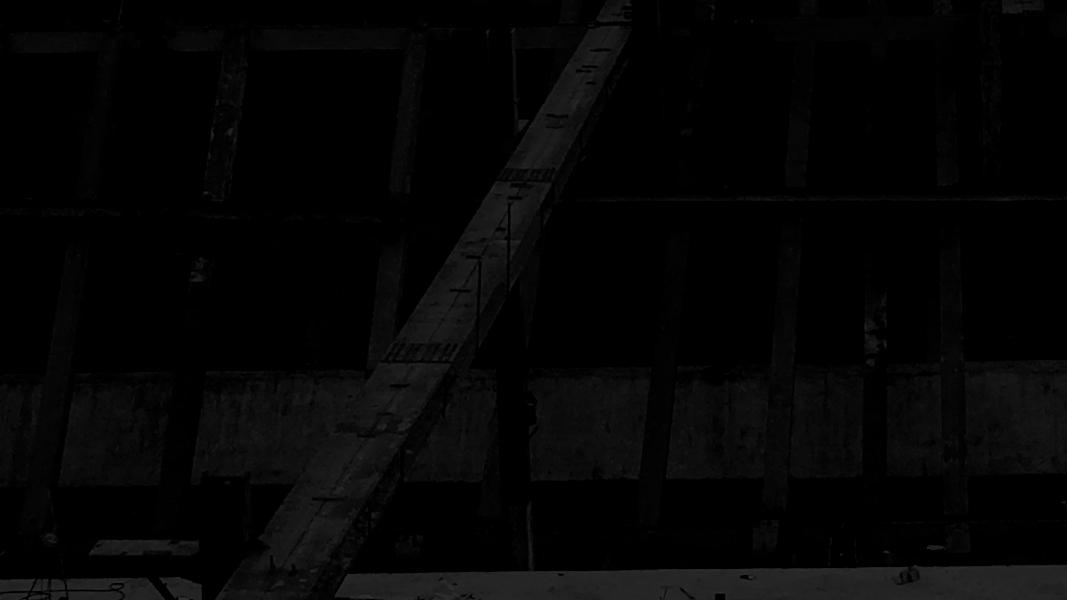
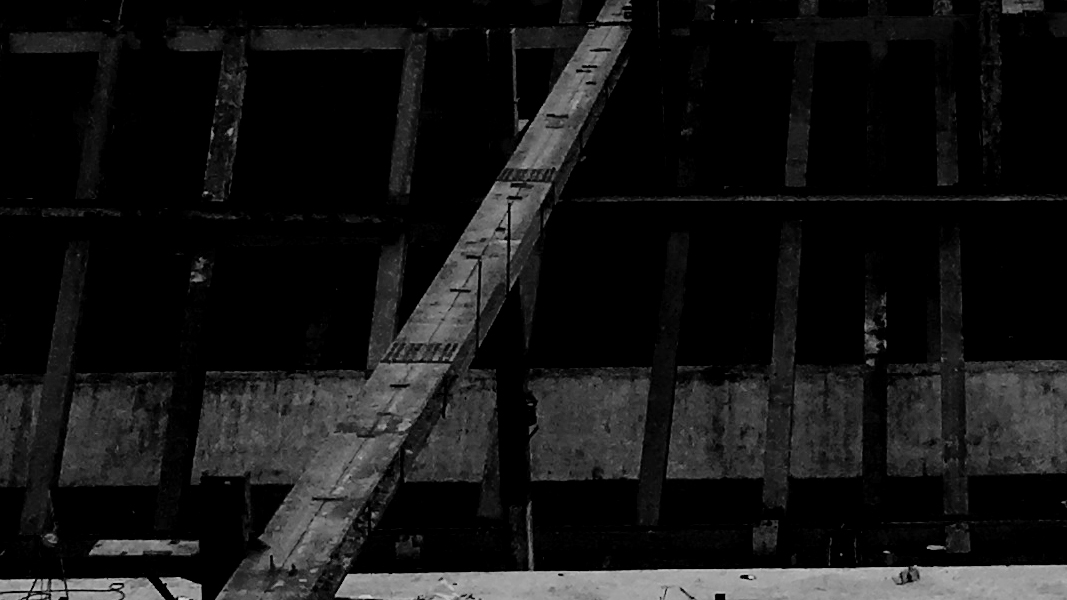
update photos

diff --git a/src/ParallaxContent.js b/src/ParallaxContent.js
@@ -4,14 +4,17 @@ import imgBoatDark from "../src/images/0_intro_background_boat.jpg";
 import imgBoatDarkForeground from "../src/images/0_intro_background_boat--foreground.png";
 import imgBus from "../src/images/3_bus.jpg";
 import imgCard from "../src/images/5_ripped_card.jpg";
+import imgCardForeground from "../src/images/5_ripped_card--foreground.png";
 import imgLocal from "../src/images/7_local.jpg";
 import imgVungTau from "../src/images/8_vung_tau.jpg";
 import imgEmptyHouse from "../src/images/10_emptyhouse.jpg";
 import imgPants from "../src/images/10_pants.jpg";
 import imgPrison from "../src/images/13_prison.jpg";
 import imgReunited from "../src/images/15_reunited.jpg";
+import imgReunitedForeground from "../src/images/15_reunited--foreground.png";
 import imgMessenger from "../src/images/17_bike_messenger.jpg";
 import imgFinalWords from "../src/images/19_final_words.jpg";
+import imgBoatBlackWhite from "../src/images/21_boat_blackwhite.jpg";
 import imgBoatColor from "../src/images/21_boat_color.jpg";
 import imgRescue from "../src/images/23_the_rescue.jpg";
 import imgBlack from "../src/images/black.jpg";
@@ -32,12 +35,14 @@ const ParallaxContent = () => {
           className="parallax-banner"
         >
           <div className="bcg" id="slide-1">
-            <div className="hsIntro">
-              <h1>&quot;1988&quot;: A Vietnamese Boat Refugee Story</h1>
-              <p className="byline">
-                By <a href="http://www.lilyn.dev">Lily Nguyen</a>
-              </p>
-              <span className="scroll-icon">Scroll</span>
+            <div className="hsContainer dark">
+              <div className="hsIntro">
+                <h1>&quot;1988&quot;: A Vietnamese Boat Refugee Story</h1>
+                <p className="byline">
+                  By <a href="http://www.lilyn.dev">Lily Nguyen</a>
+                </p>
+                <span className="scroll-icon">Scroll</span>
+              </div>
             </div>
           </div>
         </ParallaxBanner>
@@ -80,7 +85,7 @@ const ParallaxContent = () => {
           className="parallax-banner"
         >
           <div className="bcg slide-photo" id="slide-3">
-            <div className="hsContainer">
+            <div className="hsContainer dark">
               <div className="hsContent">
                 <div className="content">
                   <p>
@@ -119,15 +124,13 @@ const ParallaxContent = () => {
         </ParallaxBanner>
         <ParallaxBanner
           layers={[
-            {
-              image: imgCard,
-              speed: -20,
-            },
+            { image: imgCard, speed: -20 },
+            { image: imgCardForeground, speed: -10 },
           ]}
           className="parallax-banner"
         >
           <div className="bcg slide-photo" id="slide-5">
-            <div className="hsContainer">
+            <div className="hsContainer light">
               <div className="hsContent">
                 <div className="content">
                   <p>
@@ -175,7 +178,7 @@ const ParallaxContent = () => {
           className="parallax-banner"
         >
           <div className="bcg slide-photo" id="slide-7">
-            <div className="hsContainer">
+            <div className="hsContainer dark">
               <div className="hsContent">
                 <div className="content">
                   <p>
@@ -198,7 +201,7 @@ const ParallaxContent = () => {
           className="parallax-banner"
         >
           <div className="bcg slide-photo" id="slide-8">
-            <div className="hsContainer">
+            <div className="hsContainer dark">
               <div className="hsContent">
                 <div className="content">
                   <p>
@@ -296,7 +299,7 @@ const ParallaxContent = () => {
           className="parallax-banner"
         >
           <div className="bcg slide-photo" id="slide-12">
-            <div className="hsContainer">
+            <div className="hsContainer dark">
               <div className="hsContent">
                 <div className="content">
                   <p>
@@ -318,15 +321,13 @@ const ParallaxContent = () => {
         </ParallaxBanner>
         <ParallaxBanner
           layers={[
-            {
-              image: imgReunited,
-              speed: -20,
-            },
+            { image: imgReunited, speed: -20 },
+            { image: imgReunitedForeground, speed: -10 },
           ]}
           className="parallax-banner"
         >
           <div className="bcg slide-photo" id="slide-14">
-            <div className="hsContainer">
+            <div className="hsContainer light">
               <div className="hsContent">
                 <div className="content">
                   <p>
@@ -380,7 +381,7 @@ const ParallaxContent = () => {
           className="parallax-banner"
         >
           <div className="bcg slide-photo" id="slide-16">
-            <div className="hsContainer">
+            <div className="hsContainer dark">
               <div className="hsContent">
                 <div className="content">
                   <p>
@@ -485,14 +486,14 @@ const ParallaxContent = () => {
         <ParallaxBanner
           layers={[
             {
-              image: imgBoatDark,
+              image: imgBoatBlackWhite,
               speed: -20,
             },
           ]}
           className="parallax-banner"
         >
           <div className="bcg slide-photo" id="slide-20">
-            <div className="hsContainer">
+            <div className="hsContainer dark">
               <div className="hsContent">
                 <div className="content">
                   <p>

diff --git a/src/App.css b/src/App.css
@@ -21,19 +21,26 @@ strong {
   height: 100%;
   width: 100%;
 }
-.bcg::after {
-  content: "";
-  display: block;
-  width: 100%;
-  height: 100%;
-  background-color: rgba(0, 0, 0, 0.7);
-}
 
 .hsContainer {
   width: 100%;
   height: 100%;
   overflow: hidden;
   position: relative;
+}
+.hsContainer.dark::after {
+  content: "";
+  display: block;
+  width: 100%;
+  height: 100%;
+  background-color: rgba(0, 0, 0, 0.7);
+}
+.hsContainer.light::after {
+  content: "";
+  display: block;
+  width: 100%;
+  height: 100%;
+  background-color: rgba(0, 0, 0, 0.5);
 }
 .hsContent {
   max-width: 780px;
@@ -199,8 +206,8 @@ strong {
     line-height: 1.65;
   }
   .slide-black .hsContent p:first-letter {
-    margin-top: 24px;
-    margin-right: 20px;
+    font-size: 345%;
+    margin-top: 19px;
   }
 }
 
